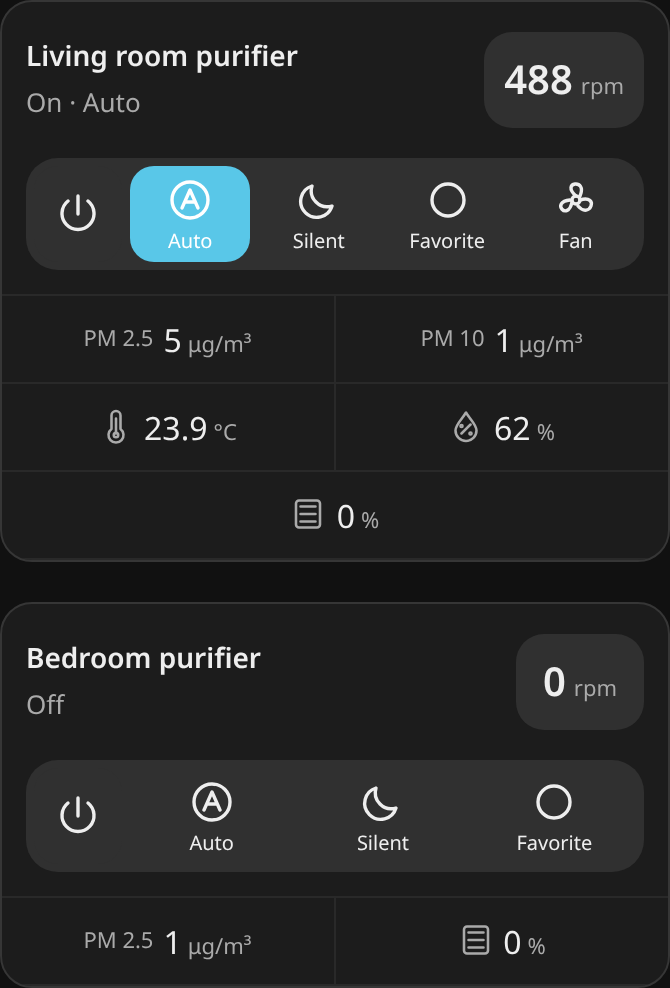
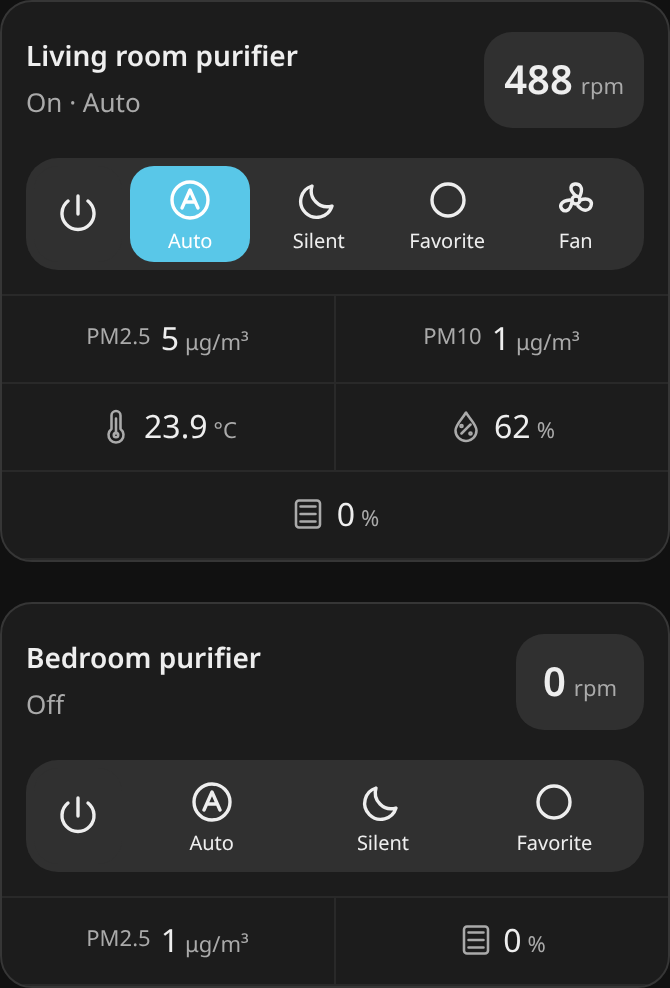
fix: keep particle labels aligned across fonts

diff --git a/src/purifier-card.ts b/src/purifier-card.ts
@@ -292,6 +292,7 @@ export class PurifierCard extends LitElement {
           stat.attribute ||
           this.hass.states[stat.entity_id ?? '']?.attributes.friendly_name ||
           stat.entity_id;
+        const inlineLabel = label?.replace(/^PM\s*(2\.5|10)$/i, 'PM$1');
         return html`<button
           type="button"
           class="stats-block"
@@ -306,7 +307,10 @@ export class PurifierCard extends LitElement {
                     .icon=${icon}
                     aria-hidden="true"
                   ></ha-icon>`
-                : html`<span class="stats-subtitle">${label}</span>`
+                : html`<span
+                    class="stats-subtitle ${inlineLabel === 'PM2.5' || inlineLabel === 'PM10' ? 'particle-label' : ''}"
+                    >${inlineLabel}</span
+                  >`
             }<span class="stats-measurement"
               ><span class="stats-value"
                 >${valid && stat.value_template ? html`<ha-template .hass=${this.hass} .template=${stat.value_template} .value=${value} .variables=${{ value }}></ha-template>` : value}</span

diff --git a/src/styles.css b/src/styles.css
@@ -231,6 +231,7 @@ ha-icon {
 .stats-value {
   min-width: 0;
   font-size: 16px;
+  line-height: 20px;
   font-variant-numeric: tabular-nums;
   color: var(--pc-primary-text-color);
 }
@@ -238,6 +239,14 @@ ha-icon {
 .stats-subtitle {
   font-size: 11px;
   line-height: 1.4;
+}
+.stats-subtitle {
+  align-self: flex-start;
+  line-height: 20px;
+}
+.particle-label {
+  flex-shrink: 0;
+  white-space: nowrap;
 }
 .stats-icon {
   --mdc-icon-size: 18px;

diff --git a/docs/RELEASE_NOTES.md b/docs/RELEASE_NOTES.md
@@ -1,11 +1,12 @@
 Inline statistics and editable display names.
 
 - Moves statistic icons and PM2.5/PM10 labels before their values, keeping each reading compact on desktop and phone layouts.
+- Keeps compact PM labels aligned with the first value line when longer readings or wider fonts wrap a unit.
 - Softens the statistics dividers and preserves 44px tap targets, tooltips, accessible labels, and entity detail links.
 - Adds Display name to the visual editor. Clearing it restores the entity name; overrides apply only to the card.
 - Preserves custom icons, labels, templates, and typing during HA state updates.
 - Keeps the existing RPM refresh behavior unchanged.
 
-Validation: lint, typecheck, 28 model tests, production build, and 45 Chromium browser tests, including inline alignment, display-name editing/clearing, and typing during HA refreshes.
+Validation: lint, typecheck, 28 model tests, production build, and 45 Chromium browser tests, including inline alignment with wider fonts and long PM readings, display-name editing/clearing, and typing during HA refreshes.
 
 Update through HACS and reload the frontend. No configuration changes are required.
